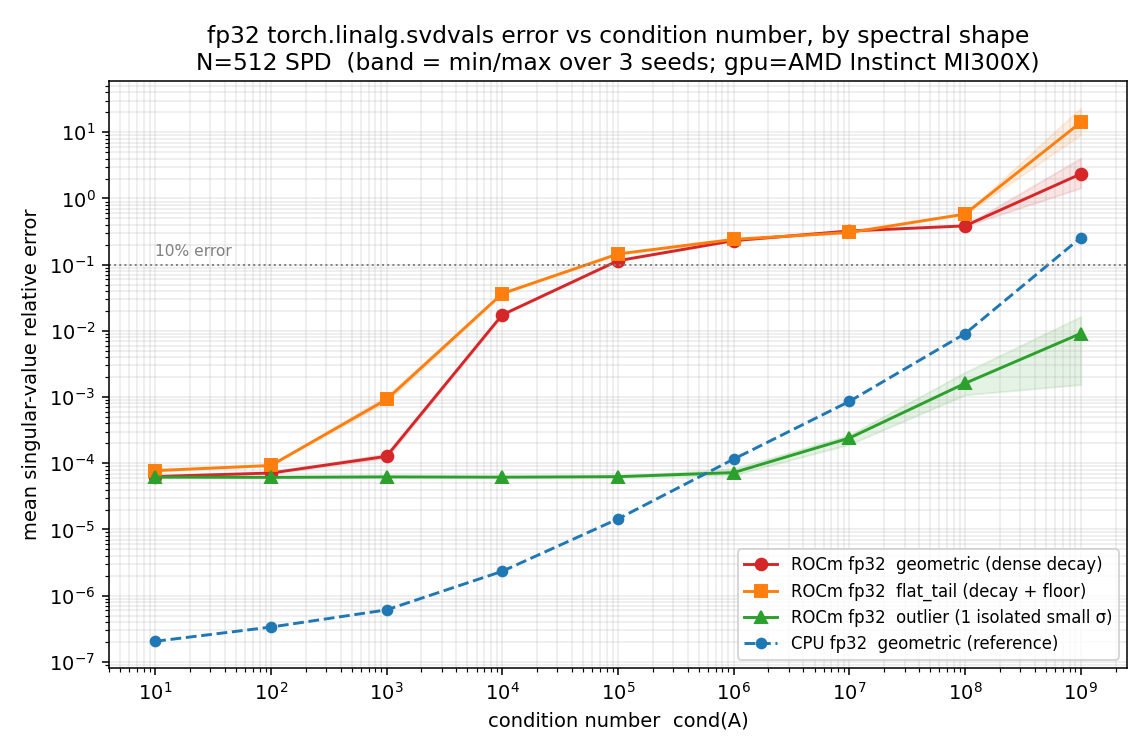
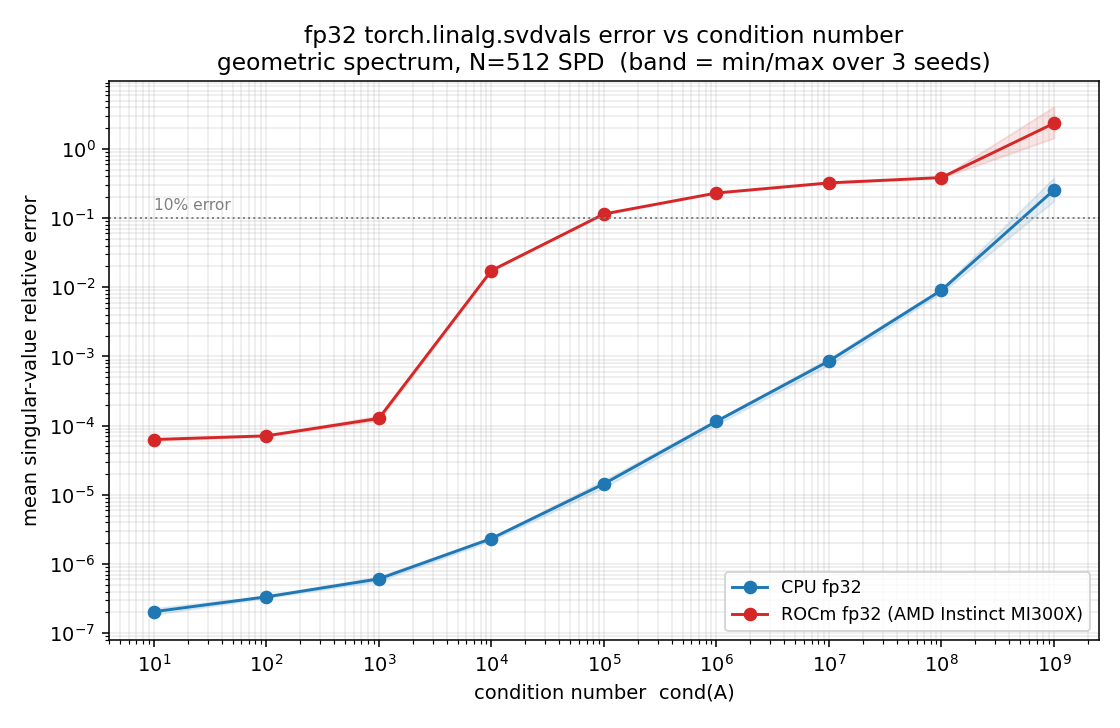
Simplify cond plot to geometric CPU vs ROCm
plot_cond.py now shows only the geometric spectrum, CPU vs ROCm fp32, across
condition numbers (drops the flat_tail/outlier shape lines). Cleaner single
message: ROCm crosses 10% ~3-4 decades earlier in cond than CPU. The
shape-vs-cond point is still covered by the §1 tables; updated STRUCTURE.md
text and caption accordingly.

diff --git a/plot_cond.py b/plot_cond.py
@@ -1,15 +1,12 @@
 """
-Plot fp32 SVD singular-value relative error vs CONDITION NUMBER, for several
-spectral SHAPES, on ROCm. The question: does condition number predict the error?
+Plot fp32 SVD singular-value relative error vs CONDITION NUMBER, CPU vs ROCm,
+for SPD matrices with a GEOMETRIC singular-value spectrum.
 
-Answer (the plot): NO, not by itself. At the SAME condition number, the error
-depends on the spectral shape:
-  - geometric / flat_tail (many singular values densely spread over the range):
-    error climbs with cond and crosses 10% around cond ~1e4.
-  - outlier (a well-conditioned bulk plus one isolated tiny singular value): the
-    cond is high but the error stays low -- ROCm handles it fine.
-CPU fp32 on the geometric spectrum is shown (dashed) as a reference: it stays
-accurate ~3-4 orders of magnitude further in cond than ROCm.
+For a fixed (geometric) spectrum the error rises with condition number on both
+backends -- but ROCm crosses 10% near cond ~1e4, while CPU stays accurate until
+cond ~1e8, i.e. ~3-4 orders of magnitude further. (The rise itself is expected:
+the relative error of the small singular values is floored at ~eps*cond by Weyl's
+theorem; the point is that ROCm sits far above that fundamental floor.)
 
 Matrices are SPD: A = Q diag(s) Qᵀ, Q Haar-random orthogonal (fp64), cast to fp32.
 Reference singular values = fp64 SVD of the same fp32 matrix.
@@ -25,32 +22,15 @@ import matplotlib.pyplot as plt
 N = 512
 CONDS = [1e1, 1e2, 1e3, 1e4, 1e5, 1e6, 1e7, 1e8, 1e9]
 SEEDS = list(range(3))
+DEVS = ["cpu"] + (["cuda"] if torch.cuda.is_available() else [])
 gpu = torch.cuda.get_device_name(0) if torch.cuda.is_available() else "cpu"
-HAS_GPU = torch.cuda.is_available()
 print(f"torch={torch.__version__} hip={getattr(torch.version,'hip',None)} gpu={gpu}")
 
 
-def spectrum(kind, N, cond):
-    i = torch.arange(N, dtype=torch.float64)
-    if kind == "geometric":                       # dense smooth decay across whole range
-        return (1.0 / cond) ** (i / (N - 1))
-    if kind == "flat_tail":                        # signal decay + clustered floor (mimics real)
-        nsig = max(2, int(N * 0.4))
-        s = torch.full((N,), 1.0 / cond, dtype=torch.float64)
-        s[:nsig] = (1.0 / cond) ** (torch.arange(nsig, dtype=torch.float64) / (nsig - 1))
-        return s
-    if kind == "outlier":                          # well-conditioned bulk + ONE tiny outlier
-        s = torch.full((N,), 1.0, dtype=torch.float64)
-        s[: N - 1] = (0.1) ** (torch.arange(N - 1, dtype=torch.float64) / (N - 2))  # bulk cond 10
-        s[-1] = 1.0 / cond                          # cond driven by this single value
-        return s
-    raise ValueError(kind)
-
-
-def err(kind, cond, seed, dev):
+def err(cond, seed, dev):
     g = torch.Generator().manual_seed(seed)
     Q, _ = torch.linalg.qr(torch.randn(N, N, dtype=torch.float64, generator=g))
-    s = spectrum(kind, N, cond)
+    s = (1.0 / cond) ** (torch.arange(N, dtype=torch.float64) / (N - 1))   # geometric
     A = (Q * s) @ Q.T
     A32 = ((A + A.T) / 2).to(torch.float32)
     ref = torch.linalg.svdvals(A32.double())
@@ -58,44 +38,35 @@ def err(kind, cond, seed, dev):
     return ((S - ref).abs() / ref.abs()).mean().item()
 
 
-def curve(kind, dev):
+def curve(dev):
     out = np.zeros((len(CONDS), len(SEEDS)))
     for i, c in enumerate(CONDS):
         for j, sd in enumerate(SEEDS):
-            out[i, j] = err(kind, c, sd, dev)
+            out[i, j] = err(c, sd, dev)
     return out
 
 
-SHAPES = ["geometric", "flat_tail", "outlier"]
-rocm = {k: curve(k, "cuda") for k in SHAPES} if HAS_GPU else {}
-cpu_geo = curve("geometric", "cpu")
-for k in SHAPES:
-    if HAS_GPU:
-        print(f"  rocm/{k:>10}: " + " ".join(f"{rocm[k][i].mean():.1e}" for i in range(len(CONDS))))
-print(f"  cpu /geometric : " + " ".join(f"{cpu_geo[i].mean():.1e}" for i in range(len(CONDS))))
+data = {dev: curve(dev) for dev in DEVS}
+for dev in DEVS:
+    print(f"  {dev:>4}: " + " ".join(f"{data[dev][i].mean():.1e}" for i in range(len(CONDS))))
 
 x = np.array(CONDS)
-style = {"geometric": ("tab:red", "o", "ROCm fp32  geometric (dense decay)"),
-         "flat_tail": ("tab:orange", "s", "ROCm fp32  flat_tail (decay + floor)"),
-         "outlier":   ("tab:green", "^", "ROCm fp32  outlier (1 isolated small σ)")}
+colors = {"cpu": "tab:blue", "cuda": "tab:red"}
+labels = {"cpu": "CPU fp32", "cuda": f"ROCm fp32 ({gpu})"}
 
-fig, ax = plt.subplots(figsize=(8.2, 5.4))
-if HAS_GPU:
-    for k in SHAPES:
-        c, m, lab = style[k]
-        ax.plot(x, rocm[k].mean(1), "-", color=c, marker=m, markersize=6, label=lab)
-        ax.fill_between(x, rocm[k].min(1), rocm[k].max(1), color=c, alpha=0.12)
-ax.plot(x, cpu_geo.mean(1), "--", color="tab:blue", marker="o", markersize=5,
-        label="CPU fp32  geometric (reference)")
-
+fig, ax = plt.subplots(figsize=(8, 5.2))
+for dev in DEVS:
+    m = data[dev]
+    ax.plot(x, m.mean(1), "-o", color=colors[dev], markersize=6, label=labels[dev])
+    ax.fill_between(x, m.min(1), m.max(1), color=colors[dev], alpha=0.12)
 ax.axhline(0.1, color="gray", ls=":", lw=1)
 ax.text(x[0], 0.12, "10% error", color="gray", fontsize=8, va="bottom")
 ax.set_xscale("log"); ax.set_yscale("log")
 ax.set_xlabel("condition number  cond(A)")
 ax.set_ylabel("mean singular-value relative error")
-ax.set_title(f"fp32 torch.linalg.svdvals error vs condition number, by spectral shape\n"
-             f"N={N} SPD  (band = min/max over {len(SEEDS)} seeds; gpu={gpu})")
-ax.legend(fontsize=8.5, loc="lower right")
+ax.set_title(f"fp32 torch.linalg.svdvals error vs condition number\n"
+             f"geometric spectrum, N={N} SPD  (band = min/max over {len(SEEDS)} seeds)")
+ax.legend(fontsize=9, loc="lower right")
 ax.grid(True, which="both", alpha=0.25)
 fig.tight_layout()
 fig.savefig("svd_error_vs_cond.png", dpi=140)

diff --git a/STRUCTURE.md b/STRUCTURE.md
@@ -58,15 +58,17 @@ collapse at cond ≳ 1e4** (singular values wrong by tens of percent). CPU fp32 
 clean until cond ~1e7–1e8. So ROCm tolerates ~3–4 orders of magnitude *less*
 conditioning than CPU for these spectra.
 
-**But condition number alone does not predict the error — shape does.** Plotting
-error vs cond for several shapes (`plot_cond.py`): the dense spectra (geometric,
-flat_tail) climb and cross 10% near cond 1e4, while an `outlier` spectrum (a
-well-conditioned bulk plus a single isolated tiny singular value) stays accurate
-to ~6e-5 even at **cond 1e9**. At a fixed cond=1e6 the dense shapes are ~3000×
-worse than the outlier shape. So a high condition number per se is harmless; it is
-harmful only when it comes with many densely-spaced singular values.
+`plot_cond.py` plots this for the geometric spectrum, CPU vs ROCm: both rise with
+condition number (the small-singular-value error is floored at ~eps·cond by Weyl's
+theorem), but ROCm crosses 10% near cond ~1e5 while CPU stays accurate until cond
+~1e9 — ROCm sits far above the fundamental floor.
 
-![SVD error vs condition number, by shape](svd_error_vs_cond.png)
+![SVD error vs condition number, geometric spectrum](svd_error_vs_cond.png)
+
+Note this rise is *within* a fixed shape. Condition number is **not** predictive
+*across* shapes (§1): at the same cond=1e6 the geometric/flat_tail spectra are
+broken while the outlier spectrum is fine — a high condition number is harmful only
+when it comes with many densely-spaced singular values.
 
 ## 3. Matrix size (geometric, cond=1e6)
 

diff --git a/README.md b/README.md
@@ -97,7 +97,7 @@ characterization with sweeps in [`STRUCTURE.md`](STRUCTURE.md); regenerate with
 | `repro_synthetic.py` | model-free reproduction — generates a tiny matrix, no data file |
 | `structure_probe.py` | sweeps spectrum shape / cond / size to characterize the trigger |
 | `plot_size.py` / `svd_error_vs_size*.png` | error-vs-size plots, fp32 + fp64 control |
-| `plot_cond.py` / `svd_error_vs_cond.png` | error-vs-condition-number, by spectral shape |
+| `plot_cond.py` / `svd_error_vs_cond.png` | error-vs-condition-number, geometric spectrum (CPU vs ROCm) |
 | `cxx_layer1.pt` | the offending real `[1025,1025]` fp32 SPD matrix (~4 MB) |
 | `STRUCTURE.md` | what matrix structure triggers the bug (sweep results) |
 | `ISSUE.md` | ready-to-file upstream bug report |
